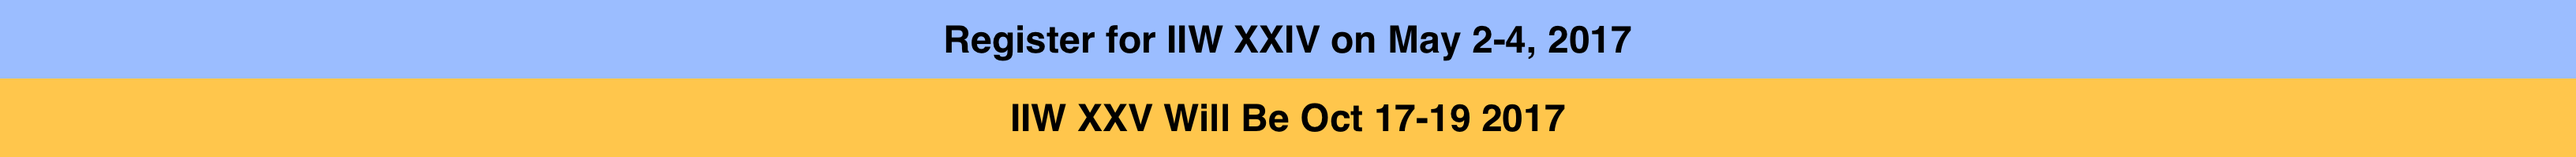
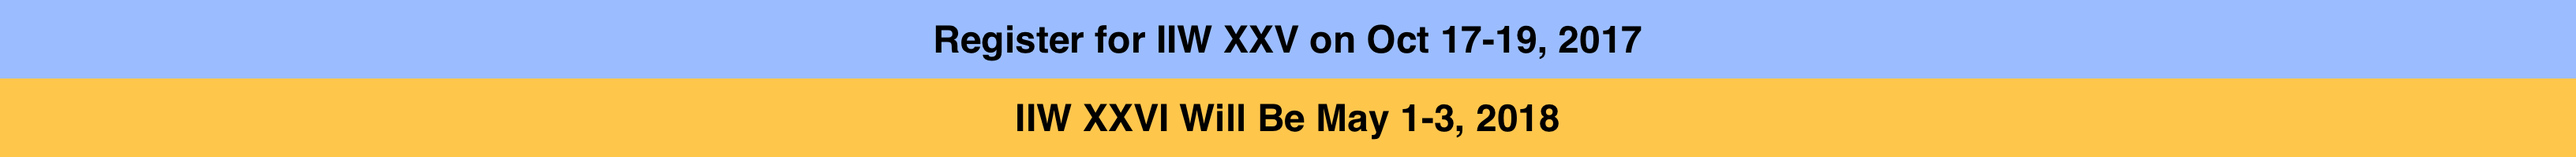
prepare for XXV

Changed region(s): [[0.3438, 0.15, 0.6562, 0.39], [0.375, 0.66, 0.625, 0.84]]

diff --git a/sponsors/sponsors.js b/sponsors/sponsors.js
@@ -9,32 +9,32 @@ var sponsors = [
      "url": "http://www.microsoft.com",
      "logo": "sponsors/logos/MSFT.png",
      "what": "Conference Dinner"
-    }, 
-    {"name": "VMWare",
-     "url": "https://www.vmware.com/",
-     "logo": "sponsors/logos/vmware.png",
-     "what": "Barista"
-    },
-    {"name": "digi.me",
-     "url": "https://digi.me",
-     "logo": "sponsors/logos/digi.me-logo.png",
-     "what": "BBQ Lunch"
-    },
-    {"name": "Kantara",
-     "url": "https://kantarainitiative.org/",
-     "logo": "sponsors/logos/logo_kantara.gif",
-     "what": "Projectors"
-    },
-    {"name": "Gigya",
-     "url": "http://www.gigya.com",
-     "logo": "sponsors/logos/gigya.jpg",
-     "what": "Power and Tables"
-    },
-    {"name": "ForgeRock",
-     "url": "https://www.forgerock.com/",
-     "logo": "sponsors/logos/forgerock.png",
-     "what": "Opening Reception"
-    },
+    }
+    // {"name": "VMWare",
+    //  "url": "https://www.vmware.com/",
+    //  "logo": "sponsors/logos/vmware.png",
+    //  "what": "Barista"
+    // },
+    // {"name": "digi.me",
+    //  "url": "https://digi.me",
+    //  "logo": "sponsors/logos/digi.me-logo.png",
+    //  "what": "BBQ Lunch"
+    // },
+    // {"name": "Kantara",
+    //  "url": "https://kantarainitiative.org/",
+    //  "logo": "sponsors/logos/logo_kantara.gif",
+    //  "what": "Projectors"
+    // },
+    // {"name": "Gigya",
+    //  "url": "http://www.gigya.com",
+    //  "logo": "sponsors/logos/gigya.jpg",
+    //  "what": "Power and Tables"
+    // },
+    // {"name": "ForgeRock",
+    //  "url": "https://www.forgerock.com/",
+    //  "logo": "sponsors/logos/forgerock.png",
+    //  "what": "Opening Reception"
+    // },
  // {"name": "Oracle",
  //  "url": "https://oracle.com/",
  //  "logo": "sponsors/logos/oracle.png",
@@ -45,41 +45,41 @@ var sponsors = [
  //  "logo": "sponsors/logos/login_with_amazon.png",
  //  "what": "Demo Hour"
  // },
-    {"name": "Auth0",
-     "url": "https://www.auth0.com/",
-     "logo": "sponsors/logos/auth0-logo-blue.png",
-     "what": "Demo Hour"
-    },
-{"name": "Auth0",
-  "url": "https://www.auth0.com/",
-  "logo": "sponsors/logos/auth0-logo-blue.png?foo=1",
-  "what": "Opening Reception"
- },
- {"name": "Yubico",
-  "url": "https://www.yubico.com/", 
-  "logo": "sponsors/logos/yubico.png",
-  "what": "Tuesday Breakfast"
- },
- {"name": "Identity.com",
-  "url": "http://www.identity.com",
-  "logo": "sponsors/logos/iD_logo_vertical.png",
-  "what": "Afternoon Break"
- },
-    {"name": "Omidyar Network",
-     "url": "https://www.omidyar.com/",
-     "logo": "sponsors/logos/omidyar_network.png",
-     "what": "Morning Break"
-    },
-    {"name": "Cirrus Identity",
-     "url": "http://www.cirrusidentity.com/",
-     "logo": "sponsors/logos/cirrusidentity.png",
-     "what": "Doc Center"
-    },
- {"name": "Evernym",
-  "url": "http://www.evernym.com",
-  "logo": "sponsors/logos/evernym.png",
-  "what": "Documentation Center"
- }
+ //    {"name": "Auth0",
+//      "url": "https://www.auth0.com/",
+//      "logo": "sponsors/logos/auth0-logo-blue.png",
+//      "what": "Demo Hour"
+//     },
+// {"name": "Auth0",
+//   "url": "https://www.auth0.com/",
+//   "logo": "sponsors/logos/auth0-logo-blue.png?foo=1",
+//   "what": "Opening Reception"
+//  },
+//  {"name": "Yubico",
+//   "url": "https://www.yubico.com/", 
+//   "logo": "sponsors/logos/yubico.png",
+//   "what": "Tuesday Breakfast"
+//  },
+//  {"name": "Identity.com",
+//   "url": "http://www.identity.com",
+//   "logo": "sponsors/logos/iD_logo_vertical.png",
+//   "what": "Afternoon Break"
+//  },
+//     {"name": "Omidyar Network",
+//      "url": "https://www.omidyar.com/",
+//      "logo": "sponsors/logos/omidyar_network.png",
+//      "what": "Morning Break"
+//     },
+//     {"name": "Cirrus Identity",
+//      "url": "http://www.cirrusidentity.com/",
+//      "logo": "sponsors/logos/cirrusidentity.png",
+//      "what": "Doc Center"
+//     },
+//  {"name": "Evernym",
+//   "url": "http://www.evernym.com",
+//   "logo": "sponsors/logos/evernym.png",
+//   "what": "Documentation Center"
+//  }
  // {"name": "BIG",
  //  "url": "http://bigfintechmedia.com/",
  //  "logo": "sponsors/logos/big.png",

diff --git a/index.html b/index.html
@@ -34,7 +34,7 @@
 
             <div class="collapse navbar-collapse navbar-ex1-collapse">
                 <ul class="nav navbar-nav">
-                    <li><a href="https://iiw24.eventbrite.com"><span style="color:#2795CC">Register</span></a>
+                    <li><a href="https://iiw25.eventbrite.com"><span style="color:#2795CC">Register</span></a>
                     </li>
                     <li><a href="http://iiw.idcommons.net">IIW Wiki</a>
                     </li>
@@ -51,7 +51,7 @@
     <!-- <div class="full-width-image-1"> -->
 
     <!--     <div class="logo-wrapper"> -->
-    <!--        <a href="https://iiw24.eventbrite.com"> -->
+    <!--        <a href="https://iiw25.eventbrite.com"> -->
     <!-- 	   <img class="img-responsive" src="img/IIW_logo_200x200.png" /> -->
     <!--         <\!-- <img class="img-responsive" src="img/IIW_XX_logo_200x200.png" /> -\-> -->
     <!--        </a> -->
@@ -69,7 +69,7 @@
 	</div>
    </div>
 
-<a href="https://iiw24.eventbrite.com">
+<a href="https://iiw25.eventbrite.com">
     <div class="register-here">
 
         <!-- <div class="logo-wrapper"> -->
@@ -86,7 +86,7 @@
             <div class="col-lg-12 section">
                 <h1 class="section-heading">Internet Identity Workshop</h1>
 	        <p class="section-paragraph">The Internet Identity Workshop has been finding, probing and solving identity issues twice every year since 2005.  We meet in the Computer History Museum in Mountain View, CA. Every IIW moves topics, code and projects downfield.  Name an identity topic and it's likely that more substantial discussion and work has been done at IIW than any other conference!</p>
-	      <p class="lead-iiw section-lead"><a href="https://iiw24.eventbrite.com">
+	      <p class="lead-iiw section-lead"><a href="https://iiw25.eventbrite.com">
 More information on registering, venue, and hotels.</a>
 	      </p>
 
@@ -116,7 +116,7 @@ If you're interested in identity, IIW has sessions you'll be glad you didn't mis
 	      
 
 <h1 class="section-heading">
-Come to the 24<sup>th</sup> IIW in May
+Come to the 25<sup>th</sup> IIW in October
 </h1>
 
 <p class="section-paragraph">
@@ -180,7 +180,7 @@ IIW is at its heart a participatory conference. Through dozens of sessions, lunc
 
 	      	      <p class="section-paragraph">IIW is cheap, as conferences go. ROI is also maximized by absence of company-driven agendas. Corporate participation is by humble sponsors who like what IIW does for the world — and to supply free meals each day and an all-day espresso bar.</p>
 
-<p class="section-paragraph">IIW takes place over three days every Spring and Fall at the Computer History Museum in Mountain View. <a href="https://iiw24.eventbrite.com">Register now</a> for IIW XXIII on October 25-27. And do it soon, because it's likely to fill up. </p>
+<p class="section-paragraph">IIW takes place over three days every Spring and Fall at the Computer History Museum in Mountain View. <a href="https://iiw25.eventbrite.com">Register now</a> for IIW XXV on October 17-19. And do it soon, because it's likely to fill up. </p>
 
             </div>
         </div>
@@ -291,7 +291,7 @@ IIW is the place we go to be challenged, to think and set the direction of our b
         <div class="row">
             <div class="col-lg-12 section"> 
  <div class="arrowNav"><a href="#top" class="arrowUp">Next</a></div>
-               <h1 class="section-heading">Sponsors for IIW XXIV</h1>
+               <h1 class="section-heading">Sponsors for IIW XXV</h1>
                 <p class="lead-iiw section-lead">IIW runs on food and our sponsors make that happen!</p>
                 <p class=""><a href="http://xri.net/=windley">Contact Phil Windley</a> if you'd like to help sponsor IIW. </p>
             </div>
